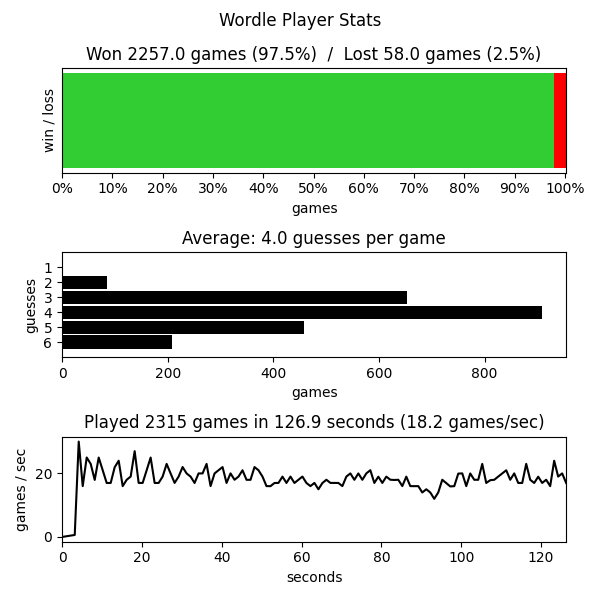
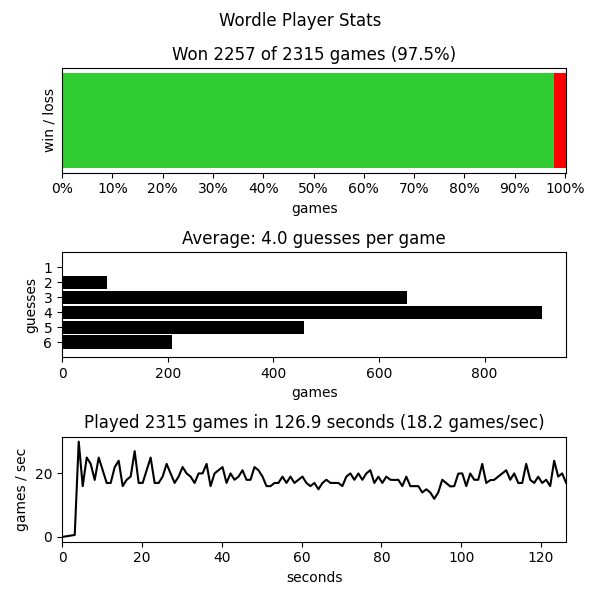
better stats

Changed region(s): [[0.15, 0.06, 0.9, 0.12]]

diff --git a/wordle_player.py b/wordle_player.py
@@ -279,7 +279,7 @@ def draw_wins_losses(ax, results):
     # ax.matshow(np.expand_dims(x, 0), cmap=cmap, aspect="auto")
     ax.set_ylabel("win / loss")
     ax.set_xlabel("games")
-    ax.set_title(f"Won {wins} games ({win_pct:.1f}%)  /  Lost {losses} games ({loss_pct:.1f}%)")
+    ax.set_title(f"Won {wins:.0f} of {total_games:.0f} games ({win_pct:.1f}%)")
     ax.set_yticks([])
     ax.set_xticks(range(0, total_games + 1, total_games // 10))
     # ax.set_xticks(x_ticks)
